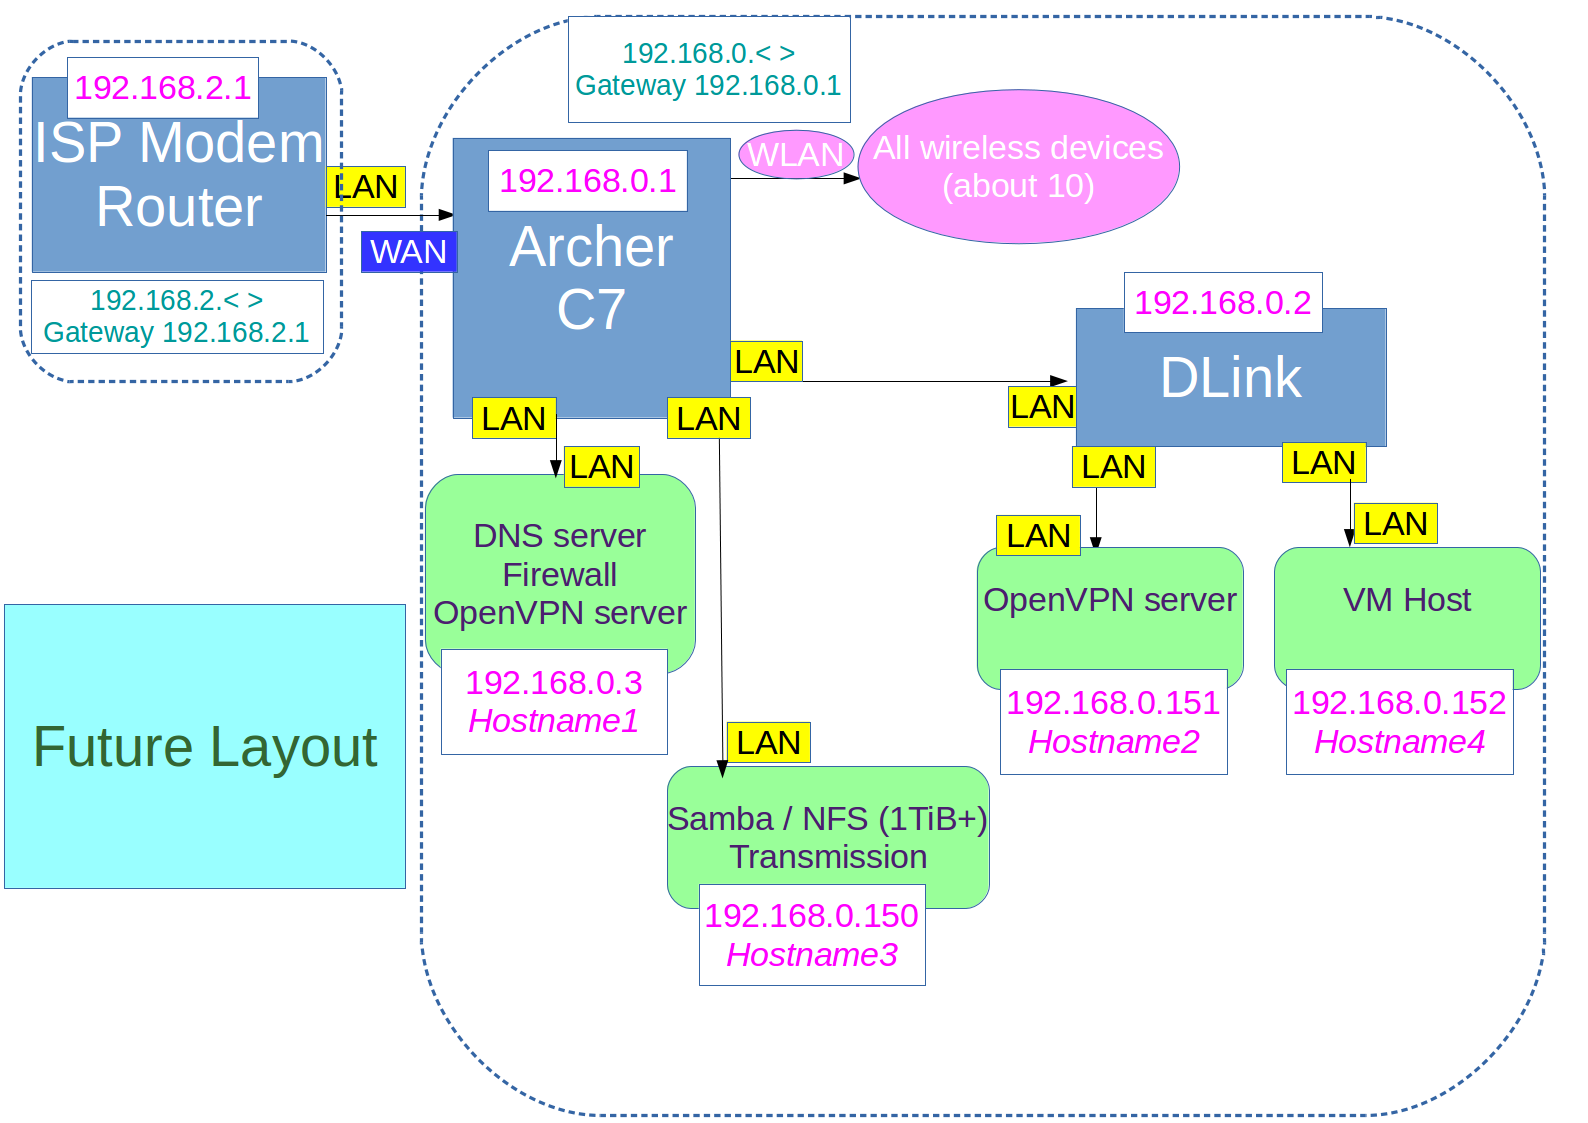
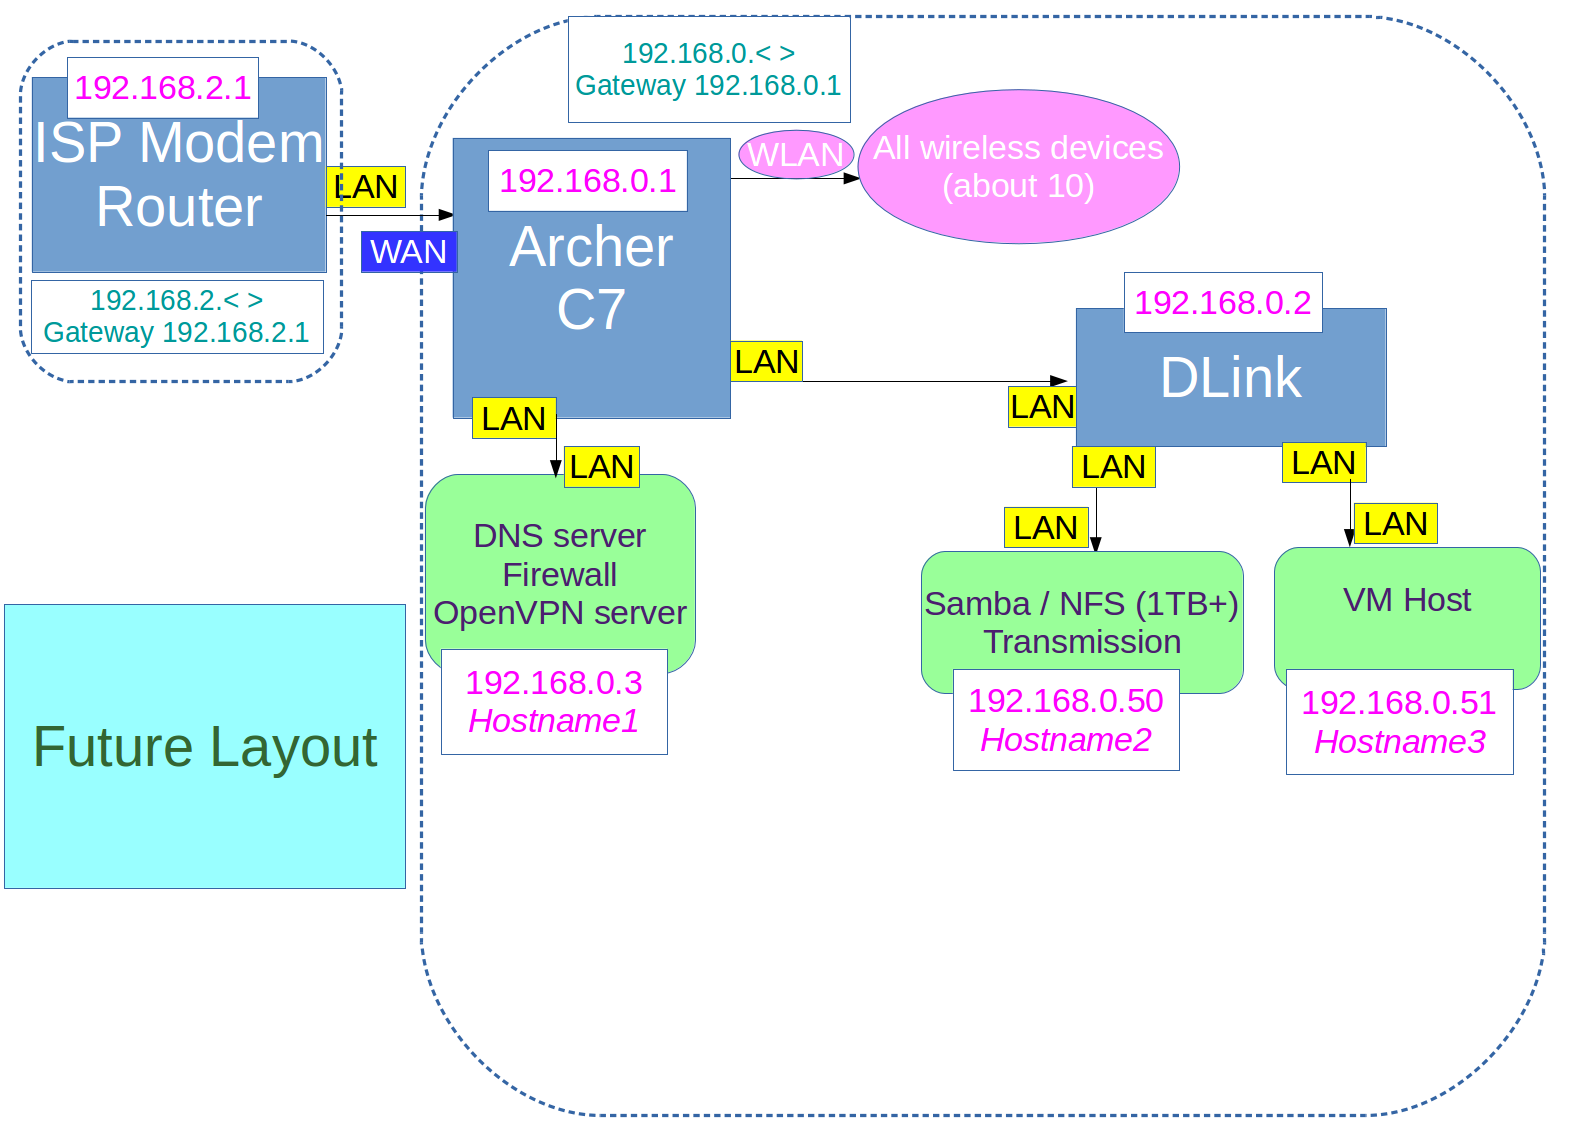
Post on updating my home network

Changed region(s): [[0.4011, 0.4363, 0.8023, 0.8727], [0.8023, 0.5922, 0.9565, 0.6857], [0.4011, 0.3428, 0.4937, 0.4052]]

diff --git a/_posts/2017-10-15-FutureHomeNetwork.md b/_posts/2017-10-15-FutureHomeNetwork.md
@@ -11,9 +11,16 @@ The main issues are
 - Two seperate file servers due to one being the attached storage for Transmission. 
 - The 600GiB dedicated file server is on the DLink network which is 100Mbit speed. While this shouldn't be an issue for Wifi-connected clients, it could slow down server-to-server transfers or slow down transfers if multiple wifi clients are accessing the file server at once.
 
+This is a diagram of the current setup:
+![Home Network](https://github.com/SuperThunder/SuperThunder.github.io/blob/master/content/HomeNetwork/NetworkDiagram_2017-10-15.png "Current Home Network (3 servers)")
+
 ## Fixing the current setup
 - Add a DNS server at the Archer C7 (or even ISP modem/router) level. By controlling DNS we can also enforce certain levels of ad/malware blocking.
 - The easy way to fix the dual file servers is to merge the Transmission and file server roles into one machine. If we want to get fancy with containment we could make the Transmission server a VM on the file server.
 - Since the file server is on a laptop or desktop it's harder to move that to the living room. It can stay connected to the DLink, or we can try to run another ethernet cable from the Archer C7 to the basement.
 
+Since I now understand VMs and libvirt/KVM well enough to use them to deploy useful services, I may add a VM host on the DLink network. It could be the same PC as the file server / transmission server, or a seperate one to not kill the file server because of excessive VM load.
+
 ## The Future Setup
+This is a rough diagram of what the future setup will look like.
+![Future Home Network](https://github.com/SuperThunder/SuperThunder.github.io/blob/master/content/HomeNetwork/NetworkDiagramFuture_2017-10-15.png "Home Network after planned changes (2 or 3 servers)")
